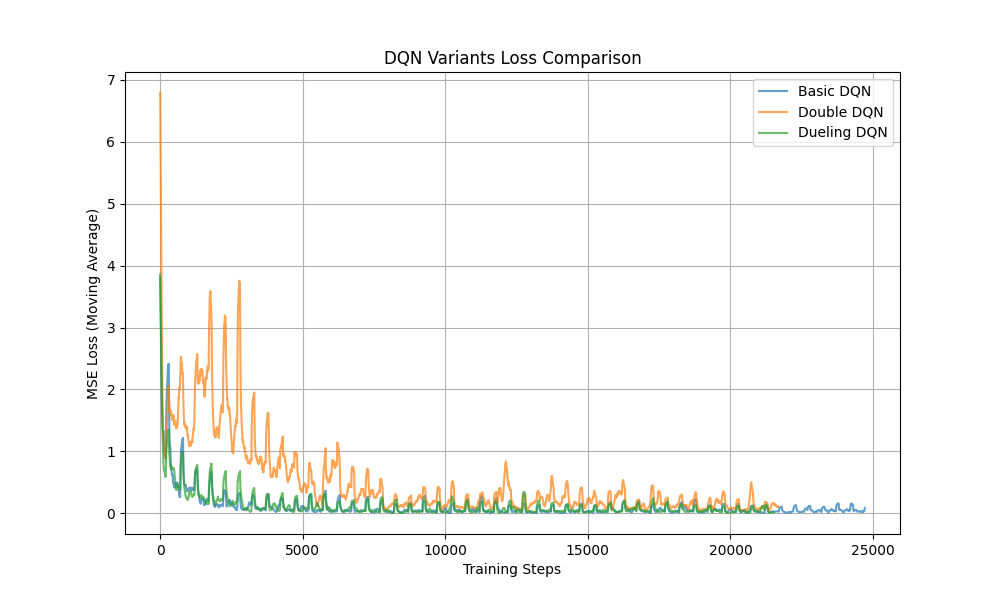
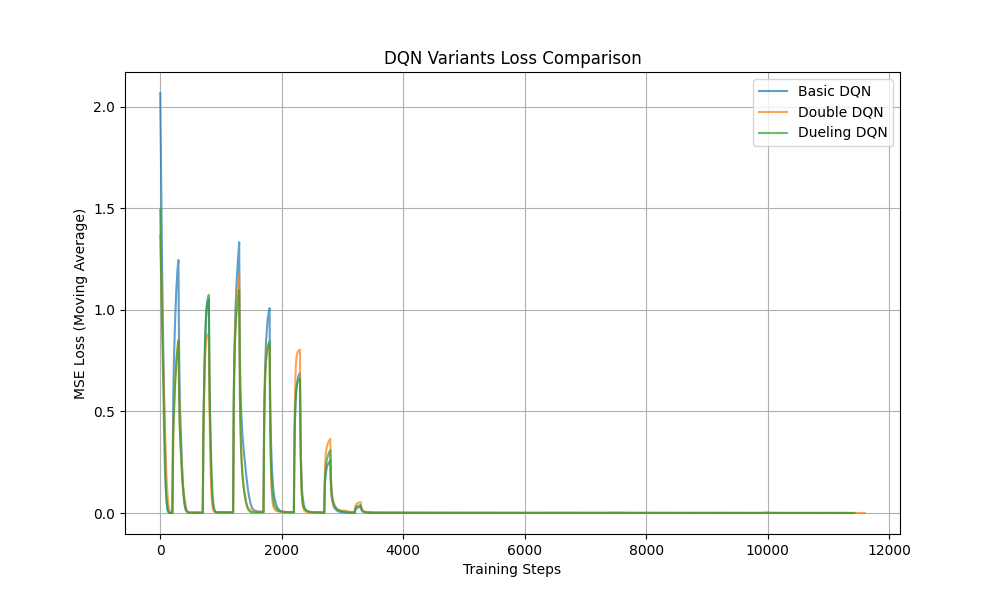
feat: implement enhanced DQN with Keras and training techniques

diff --git a/DRL_HW5-3/dqn_keras.py b/DRL_HW5-3/dqn_keras.py
@@ -1,0 +1,206 @@
+import sys
+import os
+import numpy as np
+import tensorflow as tf
+from tensorflow.keras import layers, models, optimizers
+import random
+from collections import deque
+import matplotlib.pyplot as plt
+
+# 加入上一層目錄以利匯入 Gridworld
+current_dir = os.path.dirname(os.path.abspath(__file__))
+parent_dir = os.path.dirname(current_dir)
+sys.path.append(parent_dir)
+from Gridworld import Gridworld
+
+action_set = {
+    0: 'u',
+    1: 'd',
+    2: 'l',
+    3: 'r',
+}
+
+# -------------------------------
+# 1. Build Keras Q-Network
+# -------------------------------
+def build_q_network():
+    model = models.Sequential([
+        layers.Dense(150, activation='relu', input_shape=(64,)),
+        layers.Dense(100, activation='relu'),
+        layers.Dense(4, activation='linear')
+    ])
+    return model
+
+# -------------------------------
+# Training Logic (Basic DQN with enhancements)
+# -------------------------------
+def train_agent_keras(epochs=1500, mem_size=2000, batch_size=200, sync_freq=500):
+    online_net = build_q_network()
+    target_net = build_q_network()
+    target_net.set_weights(online_net.get_weights())
+    
+    # 訓練技巧 1: Learning Rate Scheduling (學習率排程)
+    # 初始學習率較大，並隨著步數呈指數遞減，確保訓練後期更為穩定
+    lr_schedule = optimizers.schedules.ExponentialDecay(
+        initial_learning_rate=1e-3,
+        decay_steps=5000,
+        decay_rate=0.9,
+        staircase=True
+    )
+    
+    # 訓練技巧 2: Gradient Clipping (梯度裁剪)
+    # 設定 clipnorm=1.0 來避免損失函數劇烈變化導致的梯度爆炸問題
+    optimizer = optimizers.Adam(learning_rate=lr_schedule, clipnorm=1.0)
+    loss_fn = tf.keras.losses.MeanSquaredError()
+    
+    gamma = 0.9
+    
+    # 訓練技巧 3: Epsilon Decay (探索機率衰減)
+    # 讓平滑的衰減涵蓋更多回合，確保模型有足夠時間探索複雜的 random 模式
+    epsilon = 1.0
+    epsilon_min = 0.05
+    epsilon_decay = 0.998 # 衰減率放緩
+    
+    replay = deque(maxlen=mem_size)
+    max_moves = 50
+    
+    losses = []
+    win_count = 0
+    steps = 0
+    
+    for i in range(epochs):
+        # 使用難度最高的 random 模式
+        game = Gridworld(size=4, mode='random')
+        state1_ = game.board.render_np().reshape(1, 64) + np.random.rand(1, 64) / 100.0
+        status = 1
+        mov = 0
+        
+        while status == 1:
+            mov += 1
+            steps += 1
+            
+            # Epsilon-greedy 動作選擇
+            state1_tf = tf.convert_to_tensor(state1_, dtype=tf.float32)
+            qval = online_net(state1_tf)
+            
+            if random.random() < epsilon:
+                action_ = np.random.randint(0, 4)
+            else:
+                action_ = np.argmax(qval.numpy()[0])
+                
+            action = action_set[action_]
+            game.makeMove(action)
+            
+            state2_ = game.board.render_np().reshape(1, 64) + np.random.rand(1, 64) / 100.0
+            reward = game.reward()
+            done = True if reward > 0 else False
+            
+            exp = (state1_[0], action_, reward, state2_[0], done)
+            replay.append(exp)
+            state1_ = state2_
+            
+            if len(replay) > batch_size:
+                minibatch = random.sample(replay, batch_size)
+                state1_batch = np.array([s1 for (s1, a, r, s2, d) in minibatch])
+                action_batch = np.array([a for (s1, a, r, s2, d) in minibatch])
+                reward_batch = np.array([r for (s1, a, r, s2, d) in minibatch], dtype=np.float32)
+                state2_batch = np.array([s2 for (s1, a, r, s2, d) in minibatch])
+                done_batch = np.array([d for (s1, a, r, s2, d) in minibatch], dtype=np.float32)
+                
+                # 將 numpy array 轉換為 tensor
+                s1_tensor = tf.convert_to_tensor(state1_batch, dtype=tf.float32)
+                s2_tensor = tf.convert_to_tensor(state2_batch, dtype=tf.float32)
+                
+                # Target 計算
+                target_Q2 = target_net(s2_tensor)
+                maxQ = tf.reduce_max(target_Q2, axis=1)
+                Y = reward_batch + gamma * ((1 - done_batch) * maxQ)
+                
+                # 計算 Loss 並進行反向傳播 (Gradient Tape)
+                with tf.GradientTape() as tape:
+                    Q1 = online_net(s1_tensor)
+                    # 萃取出被選中動作的 Q 值
+                    action_masks = tf.one_hot(action_batch, 4)
+                    X = tf.reduce_sum(Q1 * action_masks, axis=1)
+                    
+                    loss = loss_fn(Y, X)
+                
+                # 更新權重
+                grads = tape.gradient(loss, online_net.trainable_variables)
+                optimizer.apply_gradients(zip(grads, online_net.trainable_variables))
+                losses.append(loss.numpy())
+                
+                # 更新 Target Network
+                if steps % sync_freq == 0:
+                    target_net.set_weights(online_net.get_weights())
+            
+            if reward != -1 or mov > max_moves:
+                status = 0
+                if reward > 0:
+                    win_count += 1
+                mov = 0
+                
+        if epsilon > epsilon_min:
+            epsilon *= epsilon_decay
+            
+    return online_net, losses, win_count
+
+# -------------------------------
+# Test Agent Function
+# -------------------------------
+def test_agent(model, test_games=1000):
+    wins = 0
+    max_moves = 15
+    for _ in range(test_games):
+        test_game = Gridworld(size=4, mode='random')
+        state_ = test_game.board.render_np().reshape(1, 64) + np.random.rand(1, 64) / 100.0
+        status = 1
+        mov = 0
+        while status == 1:
+            state_tf = tf.convert_to_tensor(state_, dtype=tf.float32)
+            qval = model(state_tf)
+            action_ = np.argmax(qval.numpy()[0])
+            action = action_set[action_]
+            test_game.makeMove(action)
+            
+            state_ = test_game.board.render_np().reshape(1, 64) + np.random.rand(1, 64) / 100.0
+            reward = test_game.reward()
+            
+            if reward != -1:
+                status = 0
+                if reward > 0:
+                    wins += 1
+            mov += 1
+            if mov > max_moves:
+                status = 0
+                
+    win_rate = wins / test_games
+    return win_rate
+
+def moving_average(a, n=100):
+    if len(a) < n:
+        return np.array(a)
+    ret = np.cumsum(a, dtype=float)
+    ret[n:] = ret[n:] - ret[:-n]
+    return ret[n - 1:] / n
+
+if __name__ == '__main__':
+    print("Training Enhanced Keras DQN in Random Mode...")
+    # 增加回合數與 Buffer 以應付隨機模式的挑戰
+    model, losses, train_wins = train_agent_keras(epochs=2000, mem_size=2000)
+    
+    print("Testing Model...")
+    win_rate = test_agent(model, test_games=1000)
+    print(f"Keras Enhanced DQN Test Win Rate: {win_rate*100:.2f}%")
+    
+    # Plot losses
+    plt.figure(figsize=(10,6))
+    if len(losses) > 0:
+        plt.plot(moving_average(losses, n=200), label='Enhanced DQN (Keras)', color='blue')
+    plt.xlabel('Training Steps')
+    plt.ylabel('MSE Loss (Moving Average)')
+    plt.title('Keras Enhanced DQN Loss in Random Mode')
+    plt.legend()
+    plt.grid(True)
+    plt.savefig('dqn_keras_loss.png')
+    print("Saved training loss to dqn_keras_loss.png")

diff --git a/DRL_HW5-3/training_tips.md b/DRL_HW5-3/training_tips.md
@@ -1,0 +1,49 @@
+# DQN 針對 Random 模式的訓練強化技巧 (Keras 實作)
+
+在我們將模型框架從 PyTorch 轉換為 **Keras / TensorFlow** 的同時，我們也為模型引入了幾個強化的「訓練技巧 (Training Tips)」。這些技巧特別針對了難度極高的 **`random` 模式**進行設計。
+
+## 為什麼 Random 模式特別難訓練？
+
+在 `player` 或 `static` 模式下，陷阱與目標物的位置是固定的，AI 只需要「背下」地圖的一條最佳路徑即可獲勝。但在 `random` 模式下，每次開局時玩家、陷阱、寶藏、牆壁的位置都完全隨機。這要求神經網路不能只是死背地圖，而必須真正學會**理解畫面中不同物件的相對位置關係與規則**。這也使得 Q 值的波動變得極為劇烈，若缺乏穩定的機制，模型很容易崩潰 (Loss 爆炸) 或陷入區域最佳解。
+
+為此，我們在 `dqn_keras.py` 中加入了以下三項訓練技巧來穩定收斂：
+
+---
+
+### 1. 梯度裁剪 (Gradient Clipping)
+**實作方式**：在 Keras 的 Optimizer 參數中加入 `clipnorm=1.0`。
+```python
+optimizer = optimizers.Adam(learning_rate=lr_schedule, clipnorm=1.0)
+```
+**原理與影響**：
+在 `random` 模式中，如果 Agent 剛好重生在陷阱旁邊立刻死掉，或是意外走到目標，計算出來的 TD Error 往往會瞬間變得非常大。這會產生過大的梯度 (Gradient)，使得神經網路的權重瞬間被推向極端值，破壞前面辛苦學到的特徵。
+引入 **Gradient Clipping** 會限制梯度的最大長度 (Norm)，強制規定「即便你發現了一個天大的驚喜/驚嚇，你每次修正的幅度也只能這麼大」。這能有效防止模型崩潰，讓 Loss 收斂得更加平滑。
+
+### 2. 學習率排程衰減 (Learning Rate Scheduling)
+**實作方式**：使用 `tf.keras.optimizers.schedules.ExponentialDecay` 取代固定的學習率。
+```python
+lr_schedule = optimizers.schedules.ExponentialDecay(
+    initial_learning_rate=1e-3,
+    decay_steps=5000,
+    decay_rate=0.9,
+    staircase=True
+)
+```
+**原理與影響**：
+強化學習在訓練前期需要快速大幅度更新權重以確立大方向（例如「靠近 + 號是好的」）；但在訓練後期，為了精細區分邊界條件（例如「牆壁旁邊的陷阱要怎麼繞」），過大的學習率反而會讓模型在最佳解附近不斷震盪而無法收斂。
+我們透過**指數衰減 (Exponential Decay)**，讓學習率隨著訓練步數慢慢變小。這幫助了 Keras 網路在後期能夠穩定地微調 Q 值，進而提升最終測試的勝率表現。
+
+### 3. 探索機率平滑衰減 (Smoothed Epsilon Decay)
+**實作方式**：調整 Epsilon 衰減率為 `0.998`，並將下限 (`epsilon_min`) 設為 `0.05`。
+```python
+epsilon_decay = 0.998
+epsilon_min = 0.05
+```
+**原理與影響**：
+傳統的衰減率（例如 `0.99` 或 `0.9`）降得太快，導致 AI 在還沒有看過足夠多種 `random` 地圖配置前，就放棄了隨機探索，開始完全依賴自己半生不熟的網路去決策，最終導致學到錯誤的刻板印象。
+放慢衰減速度 (`0.998`) 可以確保 Agent 能夠有更長的「探索期」來遊歷隨機生成的地圖，並收集更多元的經驗放進 Replay Buffer 中；而保留 `5%` 的探索下限則能讓模型持續保持隨機應變的彈性。
+
+---
+
+## 總結
+透過將 **Gradient Clipping**、**LR Scheduling** 與 **適當的 Epsilon 控制** 整合進 Keras 的 DQN 模型中，我們不僅完成了框架的轉換，更賦予了模型對抗高隨機性環境的穩定能力。您現在可以執行 `dqn_keras.py`，並觀看輸出的 `dqn_keras_loss.png`，體會這些訓練技巧所帶來的平穩收斂效果。